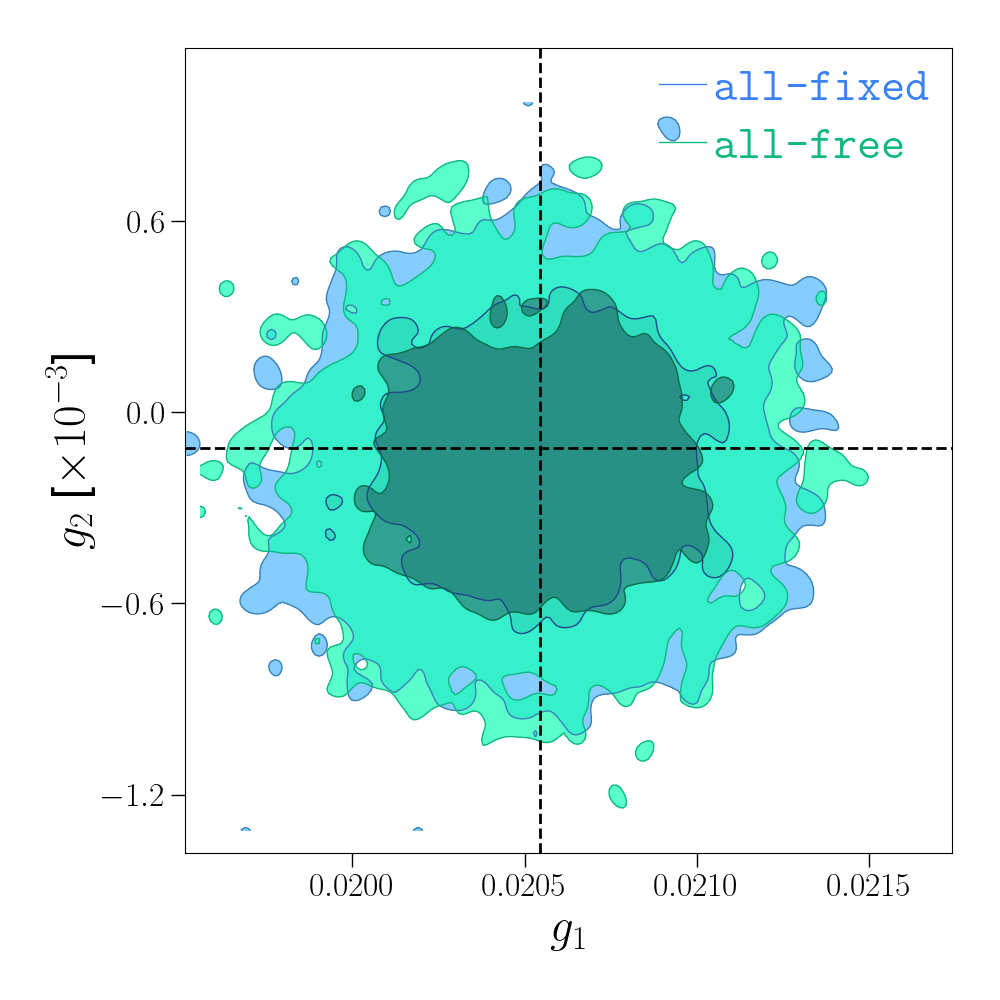
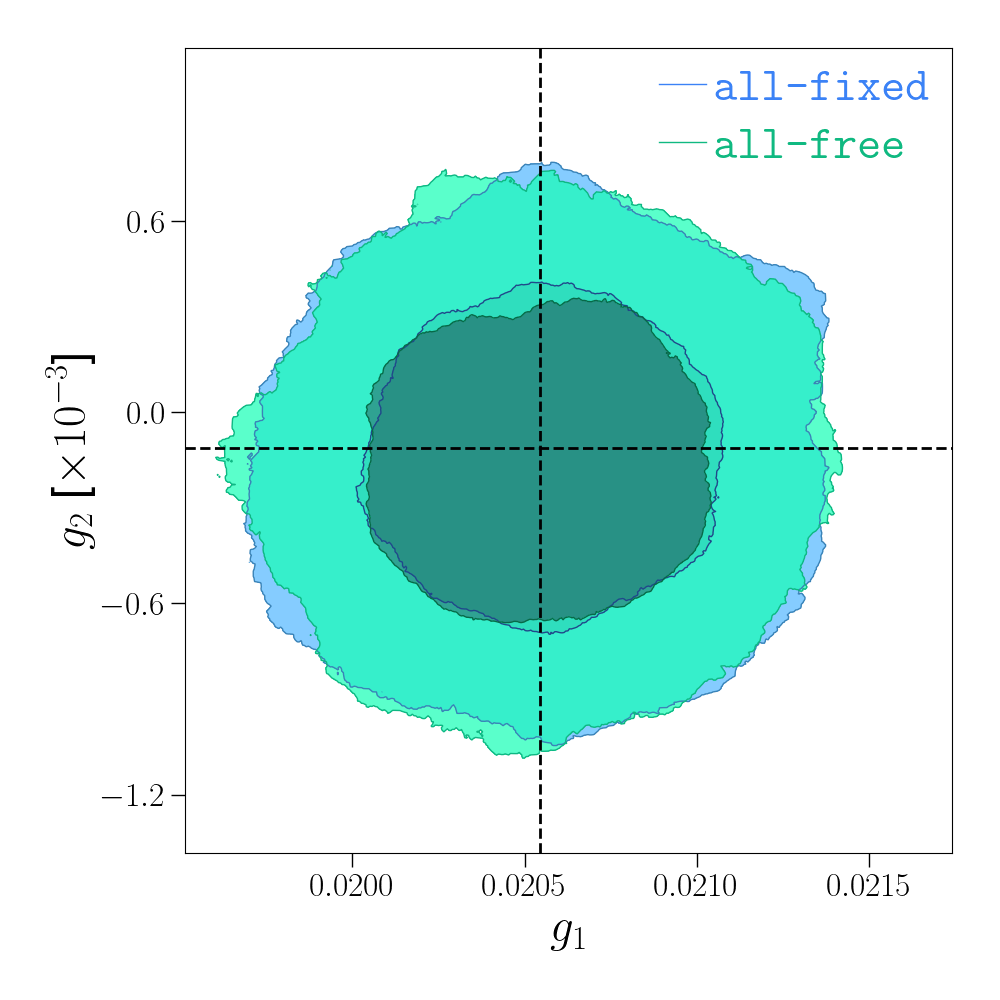
fixes and smoothing

diff --git a/scripts/get_paper_figures.py b/scripts/get_paper_figures.py
@@ -138,7 +138,7 @@ def make_distribution_figure(fpath: str | Path, overwrite: bool = False):
         np.median(params["snr"]),
         linestyle="--",
         color="k",
-        label=r"\rm Median SNR = {:.2f}".format(np.median(params["snr"])),
+        label=r"\rm Median = {:.2f}".format(np.median(params["snr"])),
     )
     ax2.set_xlabel(r"\rm SNR")
     ax2.legend()
@@ -154,7 +154,7 @@ def make_distribution_figure(fpath: str | Path, overwrite: bool = False):
         histtype="step",
         density=True,
     )
-    ax3.set_xlabel(r"\rm HLR")
+    ax3.set_xlabel(r"\rm $s$ (HLR)")
     ax3.axvline(
         np.median(params["hlr"]),
         linestyle="--",
@@ -293,7 +293,7 @@ def make_contour_shear_figure(fpath: str | Path):
     )
 
     c.add_chain(chain)
-    c.set_override(ChainConfig(sigmas=[0, 1, 2]))
+    c.set_override(ChainConfig(sigmas=[0, 1, 2], kde=1.0))
     c.add_truth(
         Truth(
             location={"g1": 0.02 + e1_mean, "g2": 0.0 + e2_mean},
@@ -311,7 +311,7 @@ def make_contour_shear_figure(fpath: str | Path):
         marker_style="*",
     )
     c.add_chain(chain2)
-    c.set_override(ChainConfig(sigmas=[0, 1, 2]))
+    c.set_override(ChainConfig(sigmas=[0, 1, 2], kde=1.0))
 
     c.set_plot_config(
         PlotConfig(
@@ -356,7 +356,7 @@ def make_contour_hyper_figure(fpath: str | Path):
     chain = Chain(samples=df, name="Example I", marker_style="*")
 
     c.add_chain(chain)
-    c.set_override(ChainConfig(sigmas=[0, 1, 2]))
+    c.set_override(ChainConfig(sigmas=[0, 1, 2], kde=1.0))
     c.add_truth(Truth(location=truth, color="k", line_width=4.0))
 
     c.set_plot_config(
@@ -533,12 +533,12 @@ def make_eta_posterior_calibration_figure(fpath: str | Path):
 
 
 def main(overwrite: bool = False):
-    make_timing_figure(OUT_PATHS["timing"], OUT_PATHS["timing2"])
-    make_distribution_figure(OUT_PATHS["galaxy_distributions"], overwrite=overwrite)
-    make_contour_shear_figure(OUT_PATHS["contour_shear"])
+    # make_timing_figure(OUT_PATHS["timing"], OUT_PATHS["timing2"])
+    # make_distribution_figure(OUT_PATHS["galaxy_distributions"], overwrite=overwrite)
+    # make_contour_shear_figure(OUT_PATHS["contour_shear"])
     make_contour_hyper_figure(OUT_PATHS["contour_hyper"])
-    make_eta_posterior_calibration_figure(OUT_PATHS["eta_pc"])
-    get_bias_table(OUT_PATHS["bias"])
+    # make_eta_posterior_calibration_figure(OUT_PATHS["eta_pc"])
+    # get_bias_table(OUT_PATHS["bias"])
 
 
 if __name__ == "__main__":
